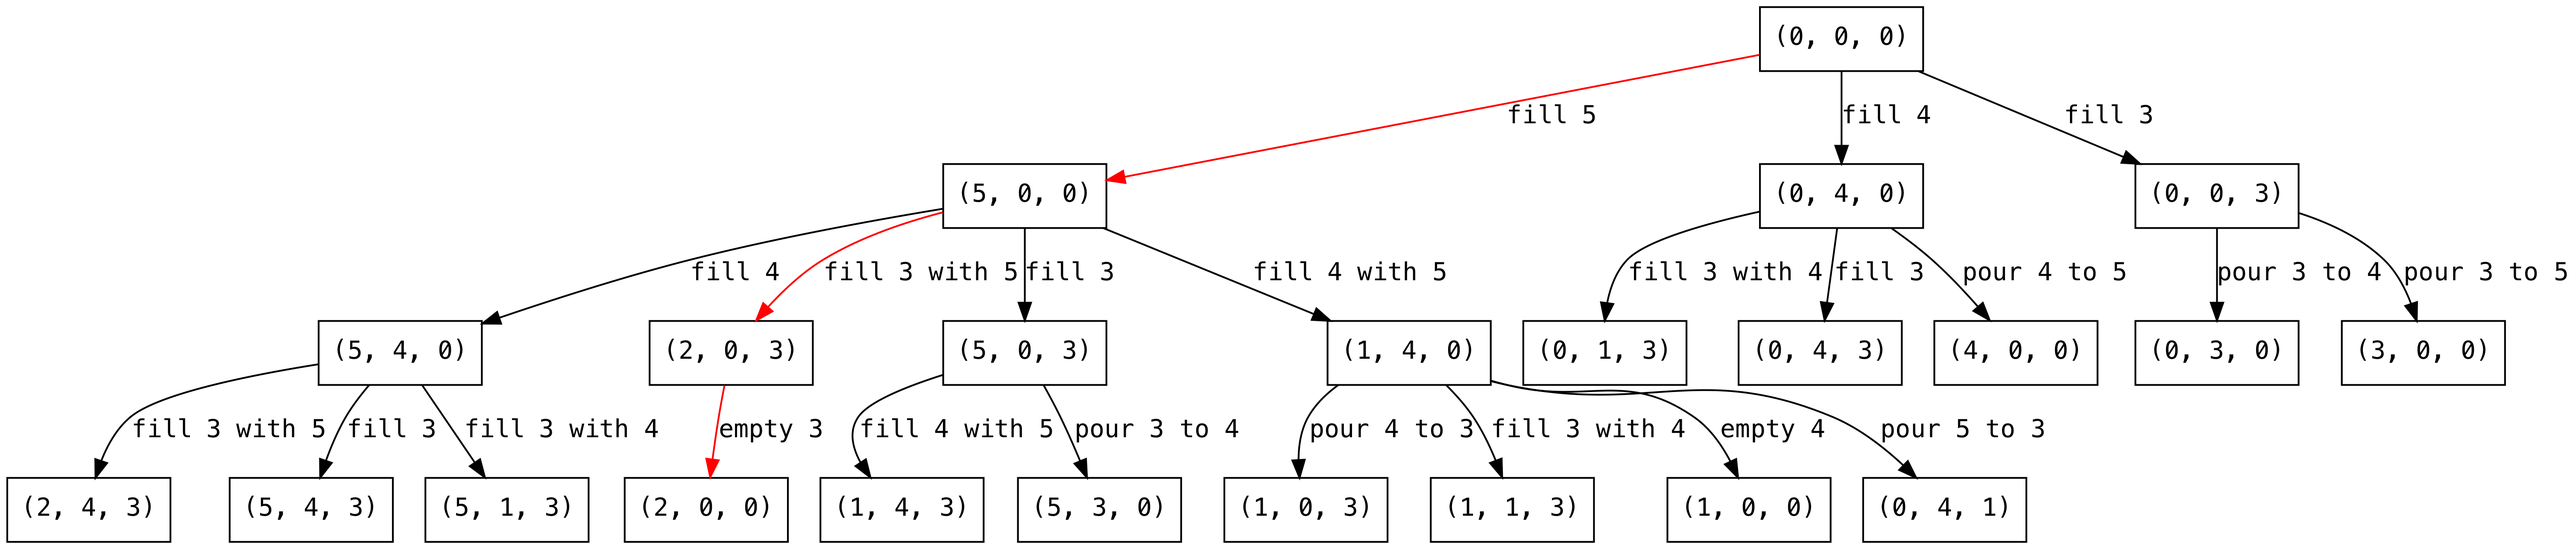
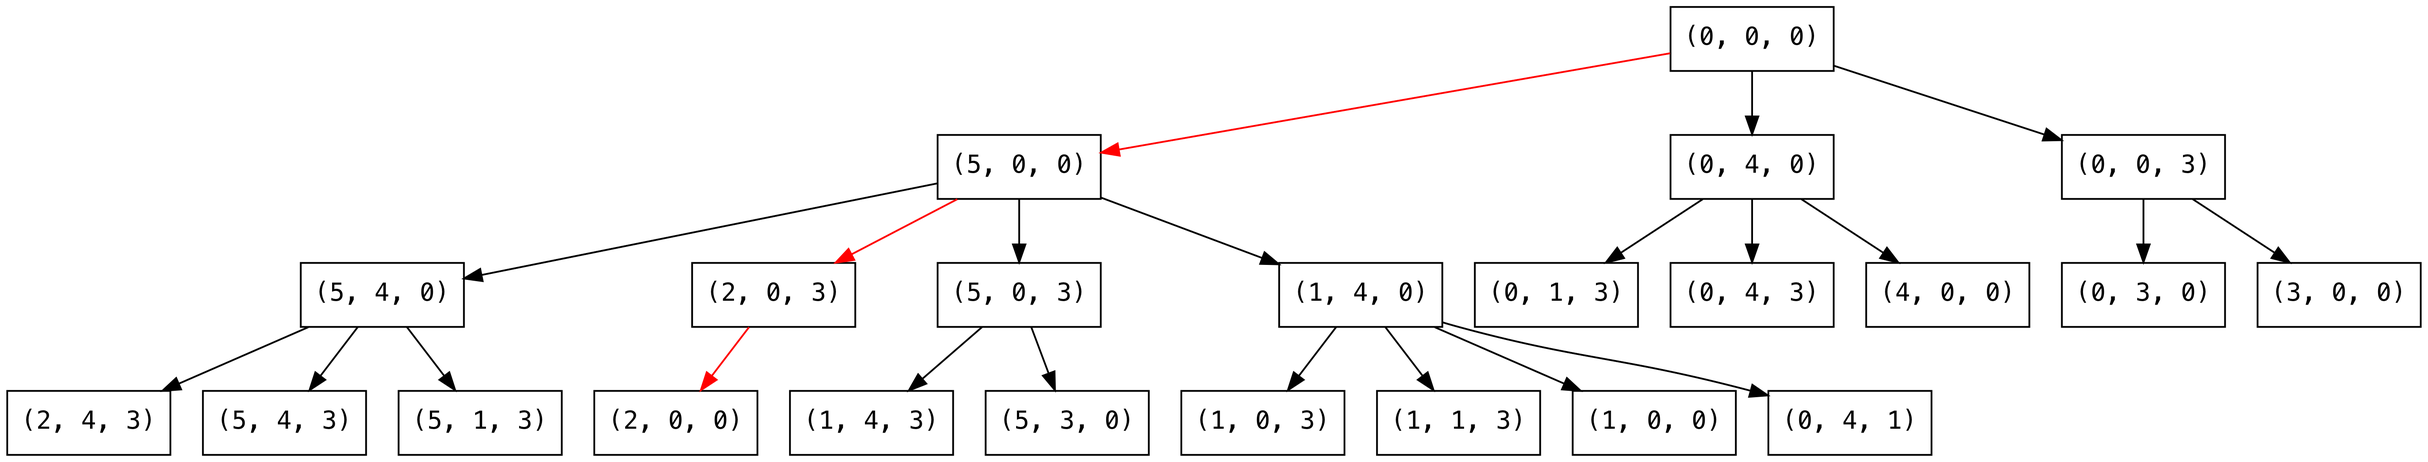
update images

diff --git a/README.rst b/README.rst
@@ -21,27 +21,23 @@ be seen as a graph with the edges being transitions between one
 state to another. A BFS (which guarantees the shortest solution)
 is performed on the graph and then the solution is plotted.
 
-The classic die hard version:
+The classic die hard version::
+
+  ./jplot bfs 4,3 2,- images/graph3.png
 
 .. image:: images/graph3.png
 
-- Initial: ``[0, 0]``
-- Target:  ``[2, *]``
-- Capacities: ``[4, 3]``
+Some harder problems::
 
-Some harder problems:
+  ./jplot bfs 5,4,3 2,0,0 images/graph.png
 
 .. image:: images/graph.png
 
-- Initial: ``[0, 0, 0]``
-- Target:  ``[2, 0, 0]``
-- Capacities: ``[5, 4, 3]``
+::
+
+  ./jplot bfs 5,4,3 2,1,0 images/graph2.png
 
 .. image:: images/graph2.png
-
-- Initial: ``[0, 0, 0]``
-- Target:  ``[2, 1, 0]``
-- Capacities: ``[5, 4, 3]``
 
 -----------------
 
